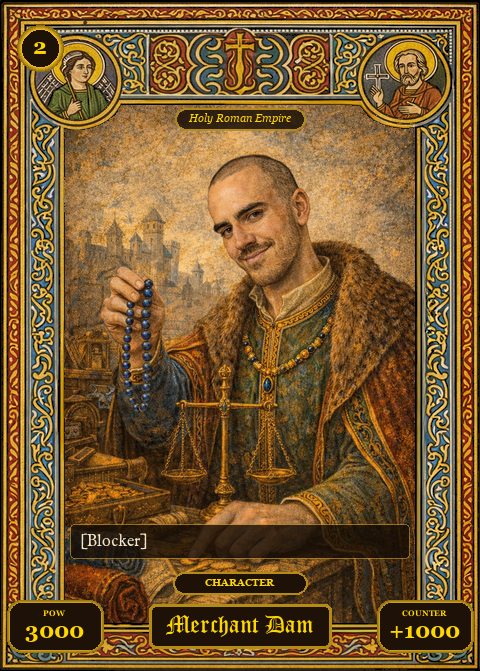
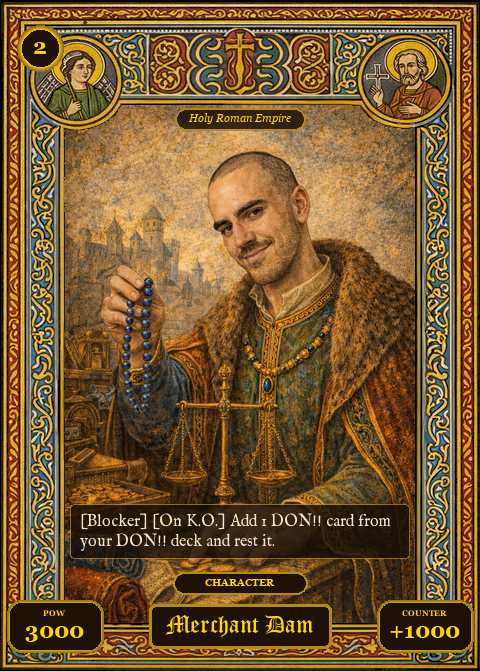
Merchant Dam rebuild, counter auto-apply, 10-min room expiry
Card art: OP01-100 Merchant Dam rebuilt via build_card() with the
Constable Jack mask-bbox override (INNER 64/105/415/623, ability
margin 65) so the full "[Blocker] [On K.O.] Add 1 DON!! card from
your DON!! deck and rest it." text fits the frame cleanly.

Counter auto-apply: during COUNTER_STEP with battleState set, a
powerBuff effect fired from a counter card now lands on
battleState.targetUid directly — no picker, no selection prompt.
The +N is written through applyTempPower (duration thisBattle by
default) and battleState.targetPower is recomputed immediately so
the defender's power overlay shows the new total. Scales to every
counter event whose effect shape is a powerBuff; character counter
values already auto-applied via counterBonus.

Room expiry: rooms now persist for 10 min after every player's
socket closes (scheduleRoomExpiry / cancelRoomExpiry). Any REJOIN
within the window cancels the timer and restores the session.
Beyond 10 min the room is evicted and a REJOIN for that roomCode
responds with ROOM_EXPIRED; the client clears its reconnect loop
and surfaces "Session expired — please start a new game" before
returning to the lobby.

Changed region(s): [[0.125, 0.149, 0.875, 0.5067], [0.125, 0.5961, 0.875, 0.924]]

diff --git a/server.js b/server.js
@@ -3257,6 +3257,38 @@ function applyTriggerEffect(game, playerId, card) {
   log(game, `[Trigger] ${card.name} revealed off life — defender may activate.`);
 }
 
+// ─── Room expiry ───────────────────────────────────────────────────────────
+// Bug 4 (this batch) — rooms are NOT deleted on disconnect. Instead, when
+// every player's socket closes we start a 10-minute expiry timer; any
+// REJOIN while the timer is running cancels it and restores the session.
+// Once the timer fires the room is evicted and future REJOINs get a
+// ROOM_EXPIRED response (the client surfaces "Session expired — please
+// start a new game").
+const ROOM_EXPIRY_MS = 10 * 60 * 1000;
+const roomExpiryTimers = new Map();
+function _someoneConnectedToRoom(room) {
+  if (!room || !Array.isArray(room.players)) return false;
+  return room.players.some(pid => {
+    const sock = clients.get(pid);
+    return sock && sock.readyState === WebSocket.OPEN;
+  });
+}
+function scheduleRoomExpiry(roomId) {
+  const prev = roomExpiryTimers.get(roomId);
+  if (prev) clearTimeout(prev);
+  const t = setTimeout(() => {
+    roomExpiryTimers.delete(roomId);
+    rooms.delete(roomId);
+    console.log('[ROOM EXPIRED]', roomId, '— evicted after 10 min idle');
+  }, ROOM_EXPIRY_MS);
+  roomExpiryTimers.set(roomId, t);
+  console.log('[ROOM EXPIRY SCHEDULED]', roomId, 'in', ROOM_EXPIRY_MS / 1000, 's');
+}
+function cancelRoomExpiry(roomId) {
+  const prev = roomExpiryTimers.get(roomId);
+  if (prev) { clearTimeout(prev); roomExpiryTimers.delete(roomId); console.log('[ROOM EXPIRY CANCELLED]', roomId); }
+}
+
 // ─── WEBSOCKET ───
 wss.on('connection', (ws) => {
   const clientId = uuidv4();
@@ -3291,15 +3323,23 @@ wss.on('connection', (ws) => {
       }
       // Bug 5 — auto-reconnect support. Client sends REJOIN with the
       // original playerId + roomCode. Server re-maps the old playerId
-      // onto this fresh socket and replays current game state so the
-      // player resumes where they left off.
+      // onto this fresh socket, cancels any pending expiry timer, and
+      // replays current game state.  If the room genuinely expired
+      // (>10 min idle) we respond with ROOM_EXPIRED so the client can
+      // surface "Session expired — please start a new game" instead of
+      // the legacy "room not found" message.
       case 'REJOIN': {
         const room = rooms.get(msg.roomCode);
-        if (!room) { ws.send(JSON.stringify({type:'ERROR',msg:'Room not found'})); return; }
-        if (!room.players.includes(msg.playerId)) {
-          ws.send(JSON.stringify({type:'ERROR',msg:'Not a member of that room'}));
+        if (!room) {
+          ws.send(JSON.stringify({ type: 'ROOM_EXPIRED', roomCode: msg.roomCode }));
           return;
         }
+        if (!room.players.includes(msg.playerId)) {
+          ws.send(JSON.stringify({ type:'ERROR', msg:'Not a member of that room' }));
+          return;
+        }
+        // A player is back — cancel any pending expiry for this room.
+        cancelRoomExpiry(msg.roomCode);
         // Point the original playerId at this fresh socket. Drop the
         // temporary clientId assigned on connect — the rejoined session
         // uses the original playerId for all further sends.
@@ -3352,7 +3392,14 @@ wss.on('connection', (ws) => {
     // a fresh socket; in that case do not delete the newer entry.
     const id = ws.clientId || clientId;
     if (clients.get(id) === ws) clients.delete(id);
-    if (ws.roomId) broadcast(ws.roomId, {type:'PLAYER_LEFT', playerId:id});
+    if (ws.roomId) {
+      broadcast(ws.roomId, {type:'PLAYER_LEFT', playerId:id});
+      // Bug 4 (this batch) — if every player's socket is now closed, start
+      // the 10-minute expiry timer. Any REJOIN before it fires cancels it;
+      // fire == room evicted and REJOINs respond with ROOM_EXPIRED.
+      const room = rooms.get(ws.roomId);
+      if (room && !_someoneConnectedToRoom(room)) scheduleRoomExpiry(ws.roomId);
+    }
   });
 });
 
@@ -4928,6 +4975,36 @@ function agentApplyEffect(effect, ctx, resume) {
     case 'powerBuff': {
       if (effect.target === 'self') {
         applyTempPower(ctx.game, ctx.card.uid, effect.value, effect.duration, ctx.card.name);
+        return { status: 'applied' };
+      }
+      // Counter-step auto-apply — during COUNTER_STEP, the defender's +N
+      // power counter always lands on the card being attacked
+      // (battleState.targetUid), which is always defender-owned (their
+      // leader or their chosen blocker). Skip the picker entirely.
+      // Scales to every counter event whose effect shape is a powerBuff.
+      if (ctx.game.phase === 'COUNTER_STEP'
+          && ctx.game.battleState
+          && ctx.game.battleState.targetUid) {
+        applyTempPower(
+          ctx.game,
+          ctx.game.battleState.targetUid,
+          effect.value,
+          effect.duration || 'thisBattle',
+          ctx.card.name,
+        );
+        // Keep battleState.targetPower in sync so the overlay + client
+        // power display reflect the new total immediately (effectivePowerOf
+        // consults tempPowerEffects, so we recompute against the now-buffed
+        // card).
+        if (ctx.game.battleState.targetUid) {
+          const meId = ctx.playerId;
+          const me = ctx.game.players[meId];
+          let target = null;
+          if (me.leader && me.leader.uid === ctx.game.battleState.targetUid) target = me.leader;
+          else target = (me.field || []).find(c => c.uid === ctx.game.battleState.targetUid);
+          if (target) ctx.game.battleState.targetPower = effectivePowerOf(target, ctx.game);
+        }
+        log(ctx.game, `${ctx.card.name}: +${effect.value} power auto-applied to defending card.`);
         return { status: 'applied' };
       }
       const opened = openPowerBuffTarget(ctx.game, ctx.playerId, {

diff --git a/game.html b/game.html
@@ -1739,6 +1739,17 @@ function handleMsg(msg) {
       if (msg.cardDb) cardDb = msg.cardDb;
       hint('Reconnected.');
       break;
+    // Room expiry — the 10-minute idle grace period elapsed without any
+    // reconnect, so the server evicted the room. Stop the reconnect loop
+    // and surface a user-friendly "session expired" message.
+    case 'ROOM_EXPIRED':
+      if (_reconnectTimer) { clearTimeout(_reconnectTimer); _reconnectTimer = null; }
+      if (_heartbeatWatchdog) { clearInterval(_heartbeatWatchdog); _heartbeatWatchdog = null; }
+      roomId = null;
+      try { if (ws) ws.close(); } catch (_) {}
+      alert('Session expired — please start a new game.');
+      window.location.href = '/index.html';
+      break;
     case 'ROOM_CREATED':
       roomId = msg.roomId; myId = msg.playerId;
       document.getElementById('waitCode').textContent = roomId;
